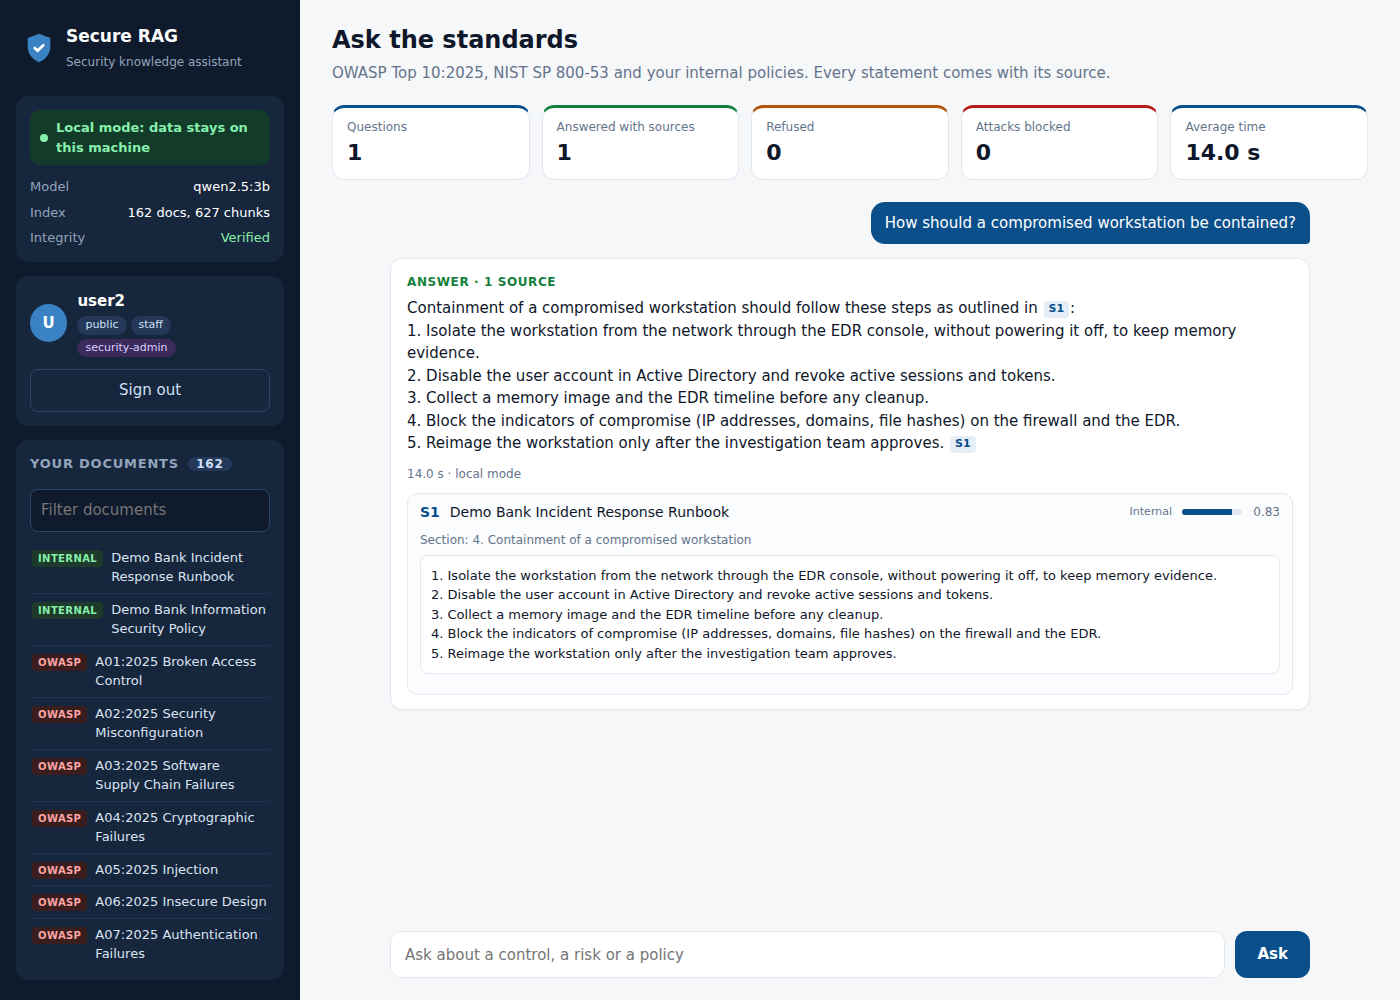
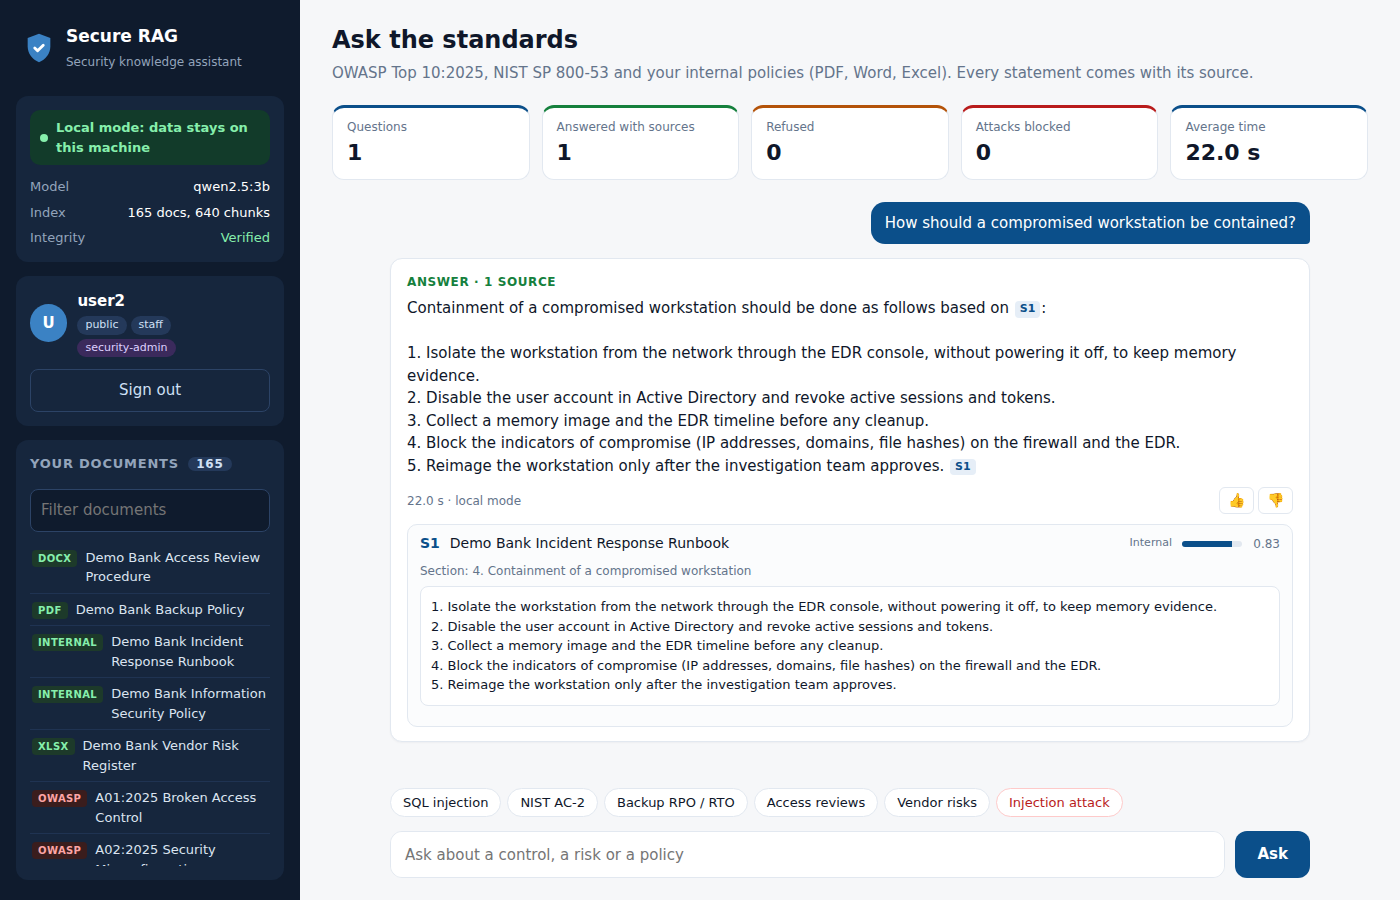
Results and screenshots with sign-in, MFA, PDF answers and the admin page
The end-to-end scorer mapped PDF, Word and Excel sources to the wrong document id.
Fixed, and the run was rescored from its recorded answers.

diff --git a/eval/run_e2e.py b/eval/run_e2e.py
@@ -85,7 +85,8 @@ def _doc_id(source: dict) -> str:
         return "owasp-" + source["reference"].split(":")[0].lower()
     if source["source"] == "nist":
         return "nist-" + source["reference"].lower()
-    return "internal-" + source["reference"].removesuffix(".md")
+    stem, _, ext = source["reference"].rpartition(".")
+    return "internal-" + (stem if ext == "md" else f"{stem}-{ext}")
 
 
 if __name__ == "__main__":

diff --git a/README.md b/README.md
@@ -87,24 +87,26 @@ Measured in CI on every push (`eval/run_eval.py`, gates in [`eval/gates.json`](e
 
 | Metric | Result | Gate |
 |---|---|---|
-| Expected document among the 5 sources given to the LLM (hit@5) | **96.2%** (51 of 53 questions) | at least 85% |
-| Mean reciprocal rank (MRR@5) | **0.931** | at least 0.70 |
+| Expected document among the 5 sources given to the LLM (hit@5) | **96.6%** (57 of 59 questions) | at least 85% |
+| Mean reciprocal rank (MRR@5) | **0.929** | at least 0.70 |
 | Off-topic questions refused before calling the LLM | **91.7%** (11 of 12) | at least 80% |
 | Real questions wrongly refused | **0%** | at most 5% |
 | Prompt injection detection, precision and recall | **100% / 100%** (20 attacks, 25 normal questions) | at least 95% / 90% |
 
-The injection set was written while building the rules, so 100% says the known patterns are covered, not that every new attack is caught. That is why injection detection is only one of the layers.
+The 59 questions include questions answered by the PDF, Word and Excel files. The injection set was written while building the rules, so 100% says the known patterns are covered, not that every new attack is caught. That is why injection detection is only one of the layers.
 
 End-to-end, with the local LLM (`qwen2.5:3b` on a 4-core CPU, no GPU), on 20 questions:
 
 | Check | Result |
 |---|---|
-| Questions answered with sources | **100%** (20 of 20) |
-| Answers citing an expected document | **95%** (19 of 20) |
+| Questions answered with sources | **95%** (19 of 20) |
+| Answers citing an expected document | **90%** of questions (18 of 20), **94.7%** of the answered ones |
 | Off-topic questions refused | **6 of 6** |
 | Injection attempts blocked | **6 of 6** |
 | Restricted runbook shown to a user without the role | **never** |
-| Median time per answer | **31 s** |
+| Median time per answer | **19 s** |
+
+The unanswered question was asked in French, which the English embedding model handles poorly (see Limitations).
 
 Full results: [reports/eval.json](reports/eval.json) and [reports/e2e.json](reports/e2e.json).
 
@@ -112,13 +114,15 @@ The evaluation sets are small and were written for this project, so these number
 
 ## Screenshots
 
-| Internal runbook, answered for a security-admin | OWASP answer for a staff user |
+| Sign-in, then MFA set up with an authenticator app | Answer from a PDF, with the exact section |
 |---|---|
-| ![Answer](docs/answer.png) | ![Standards](docs/standards.png) |
+| ![MFA setup](docs/mfa_setup.png) | ![PDF answer](docs/pdf_answer.png) |
 | **Access control**: `user1` asks for the restricted runbook | **Prompt injection** blocked before the LLM |
 | ![Access control](docs/access_control.png) | ![Injection blocked](docs/injection_blocked.png) |
+| **Internal runbook** answered for a security-admin | **Administration**: accounts, MFA status, security events |
+| ![Answer](docs/answer.png) | ![Administration](docs/admin.png) |
 
-Screenshots from the end-to-end workflow, with `qwen2.5:3b` running locally on the CI machine.
+Screenshots from the end-to-end workflow, with `qwen2.5:3b` running locally on the CI machine. The workflow signs in each account and sets up its MFA like a person would.
 
 ## Run it
 
